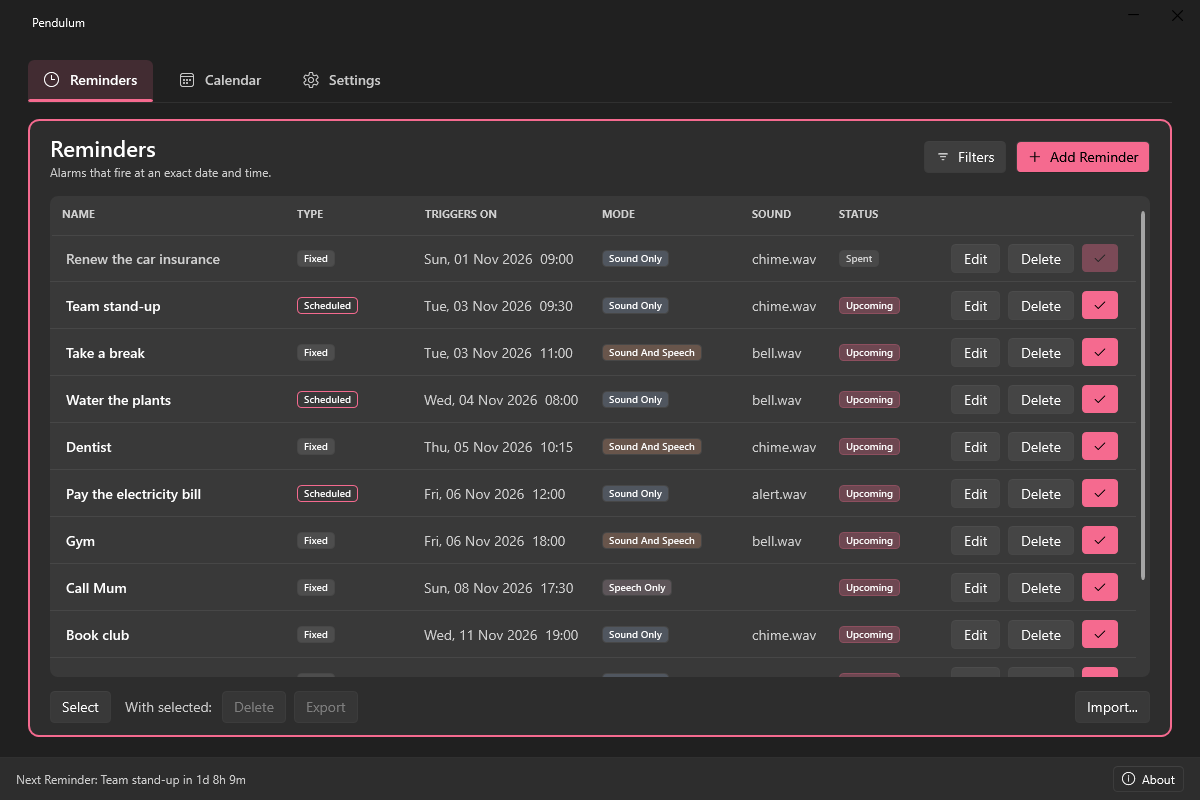
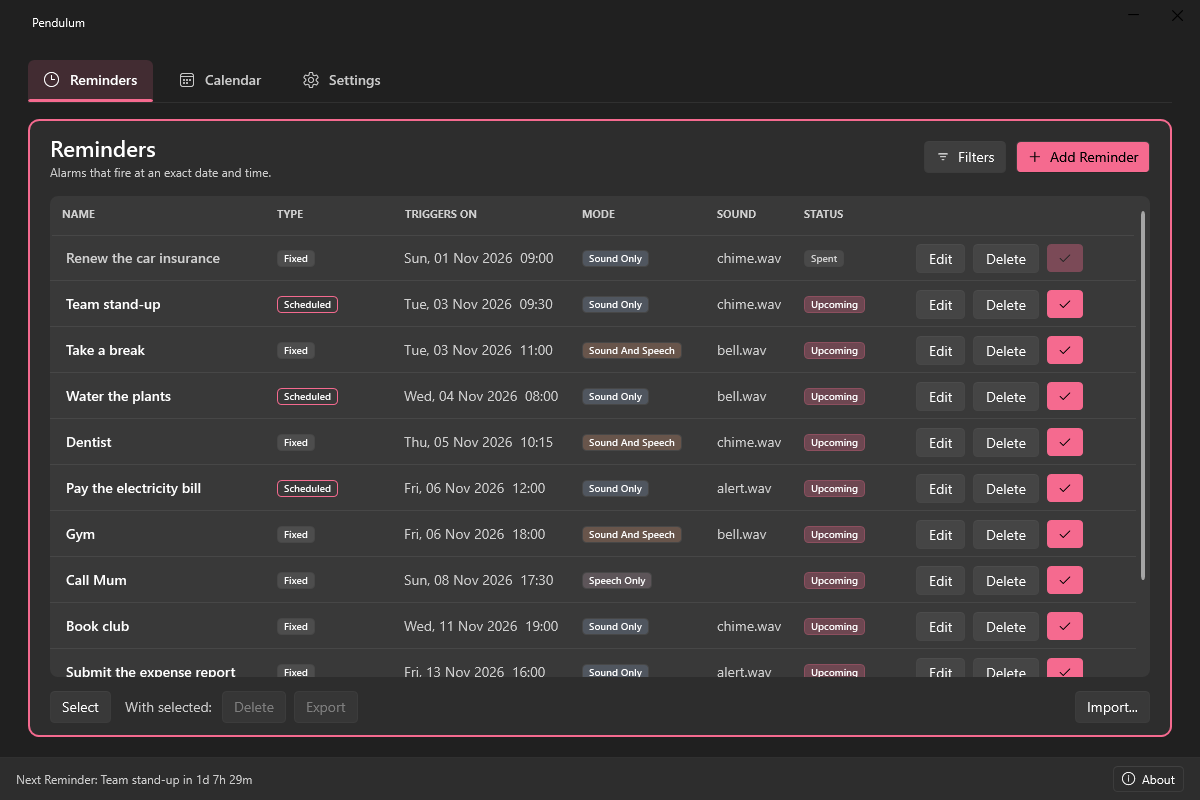
Keep AM/PM in the Reminders list's date column
The date column had a fixed width of 177 pixels in the XAML: no window
or column size is saved, so every window showed it the same way. With
12-hour times a date like "Thu, 05 Nov 2026  10:15 AM" needs about 15
pixels more than the column gave it, so AM/PM was cut off.

When the list loads, and whenever the 12/24-hour setting changes, the
column is measured for the widest date and time the current format can
show (every day of a year, so every day and month name, at a two-digit
hour morning and evening) in the list's own font, and widened if that
needs more than 177. A GridViewColumn has no minimum width, so dragging
it narrower than that is undone. The Name and Mode columns give up the
room it takes, so the columns still fit the window's default width
without a horizontal scrollbar. A test checks the width in two
cultures, after a drag and after switching to 24-hour times.

The README's Reminders picture is redrawn.

diff --git a/Pendulum.App/Views/TriggersPanel.xaml b/Pendulum.App/Views/TriggersPanel.xaml
@@ -249,7 +249,7 @@
 
         <Border Grid.Row="1" Background="{DynamicResource ControlFillColorDefaultBrush}" CornerRadius="8">
             <Grid>
-                <ListView ItemsSource="{Binding Source={StaticResource SortedTriggers}}" SelectedItem="{Binding SelectedTrigger}"
+                <ListView x:Name="RemindersList" ItemsSource="{Binding Source={StaticResource SortedTriggers}}" SelectedItem="{Binding SelectedTrigger}"
                           VerticalAlignment="Top"
                           BorderThickness="0" Background="Transparent"
                           Visibility="{Binding HasTriggers, Converter={StaticResource BoolToVis}, FallbackValue=Visible}">
@@ -268,7 +268,7 @@
                                     </DataTemplate>
                                 </GridViewColumn.CellTemplate>
                             </GridViewColumn>
-                            <GridViewColumn Width="235">
+                            <GridViewColumn Width="215">
                                 <GridViewColumn.Header>
                                     <GridViewColumnHeader Tag="Name" Click="ColumnHeader_Click" Style="{StaticResource CleanGridViewColumnHeader}">
                                         <StackPanel>
@@ -338,7 +338,9 @@
                                     </DataTemplate>
                                 </GridViewColumn.CellTemplate>
                             </GridViewColumn>
-                            <GridViewColumn Width="177">
+                            <!-- Widened in code, when needed, to the widest date and time the current
+                                 format can show (FitDateColumn): it never cuts off AM/PM. -->
+                            <GridViewColumn x:Name="DateColumn" Width="177">
                                 <GridViewColumn.Header>
                                     <GridViewColumnHeader Tag="TriggerAt" Click="ColumnHeader_Click" Style="{StaticResource CleanGridViewColumnHeader}">
                                     <StackPanel>
@@ -381,7 +383,7 @@
                                     </DataTemplate>
                                 </GridViewColumn.CellTemplate>
                             </GridViewColumn>
-                            <GridViewColumn Width="150">
+                            <GridViewColumn Width="135">
                                 <GridViewColumn.Header>
                                     <GridViewColumnHeader Tag="Mode" Click="ColumnHeader_Click" Style="{StaticResource CleanGridViewColumnHeader}">
                                     <StackPanel>

diff --git a/Pendulum.App/Views/TriggersPanel.xaml.cs b/Pendulum.App/Views/TriggersPanel.xaml.cs
@@ -1,7 +1,10 @@
 using System.ComponentModel;
+using System.Globalization;
 using System.Windows;
 using System.Windows.Controls;
 using System.Windows.Data;
+using System.Windows.Media;
+using Pendulum.App.Services;
 using Pendulum.App.ViewModels;
 using Pendulum.Core.Models;
 
@@ -30,7 +33,67 @@ public partial class TriggersPanel : UserControl
             EnableLiveSorting();
             SetupFiltering();
             ApplySort();
+            FitDateColumn();
+            DependencyPropertyDescriptor.FromProperty(GridViewColumn.WidthProperty, typeof(GridViewColumn))
+                .AddValueChanged(DateColumn, (_, _) => KeepDateColumnWide());
+            AppServices.Instance.Settings.PropertyChanged += (_, e) =>
+            {
+                if (e.PropertyName == nameof(AppSettings.Use24HourTime))
+                    FitDateColumn();
+            };
         };
+    }
+
+    // ---- The date column: never narrower than its widest date and time ----
+
+    /// The width the XAML gives the date column, kept when the dates fit in it.
+    private const double DateColumnDefaultWidth = 177;
+
+    /// A cell's padding (6 each side), the date's own left margin (5) and room after it (8).
+    private const double DateCellChrome = 6 + 6 + 5 + 8;
+
+    private double _dateColumnAutoWidth = DateColumnDefaultWidth;
+
+    /// The narrowest the date column may be: its widest date and time in the current format.
+    internal double DateColumnMinWidth { get; private set; }
+
+    /// Sizes the date column for the widest date and time the current format can show (the
+    /// culture's day and month names, 12- or 24-hour), and widens it if the dates don't fit. A
+    /// width the user dragged wider is kept.
+    internal void FitDateColumn()
+    {
+        DateColumnMinWidth = Math.Ceiling(WidestDateText(RemindersList, AppServices.Instance.Settings.Use24HourTime) + DateCellChrome);
+        var auto = Math.Max(DateColumnDefaultWidth, DateColumnMinWidth);
+        var dragged = Math.Abs(DateColumn.Width - _dateColumnAutoWidth) > 0.5;
+        _dateColumnAutoWidth = auto;
+        DateColumn.Width = dragged ? Math.Max(DateColumn.Width, DateColumnMinWidth) : auto;
+    }
+
+    // A GridViewColumn has no MinWidth: a drag narrower than the dates is undone.
+    private void KeepDateColumnWide()
+    {
+        if (DateColumn.Width < DateColumnMinWidth)
+            DateColumn.Width = DateColumnMinWidth;
+    }
+
+    /// The widest date and time the list can show, in the list's own font: every day of a year
+    /// (so every day name with every month name, and two-digit days), at a two-digit hour in the
+    /// morning and the evening (AM and PM).
+    internal static double WidestDateText(Control list, bool use24Hour)
+    {
+        var typeface = new Typeface(list.FontFamily, list.FontStyle, list.FontWeight, list.FontStretch);
+        var pixelsPerDip = VisualTreeHelper.GetDpi(list).PixelsPerDip;
+        var widest = 0.0;
+        for (var day = new DateTime(2026, 1, 1); day.Year == 2026; day = day.AddDays(1))
+        {
+            foreach (var hour in new[] { 10, 22 })
+            {
+                var text = DisplayFormat.DateAndTime(day.AddHours(hour).AddMinutes(58), use24Hour);
+                var formatted = new FormattedText(text, CultureInfo.CurrentCulture, list.FlowDirection, typeface, list.FontSize, Brushes.Black, pixelsPerDip);
+                widest = Math.Max(widest, formatted.WidthIncludingTrailingWhitespace);
+            }
+        }
+        return widest;
     }
 
     private void EnableLiveSorting()

diff --git a/Pendulum.App.Tests/ReminderFilterPanelTests.cs b/Pendulum.App.Tests/ReminderFilterPanelTests.cs
@@ -232,6 +232,46 @@ public sealed class ReminderFilterPanelTests : IDisposable
         });
     }
 
+    [Theory]
+    [InlineData("en-US")]
+    [InlineData("en-GB")]
+    public void The_date_column_is_never_narrower_than_its_widest_date_and_time(string culture)
+    {
+        var settings = new AppSettings { Use24HourTime = false };
+
+        UiThread.Invoke(() =>
+        {
+            var before = System.Globalization.CultureInfo.CurrentCulture;
+            System.Globalization.CultureInfo.CurrentCulture = System.Globalization.CultureInfo.GetCultureInfo(culture);
+            try
+            {
+                var panel = Build(settings);
+                panel.RaiseEvent(new RoutedEventArgs(FrameworkElement.LoadedEvent));   // as when the tab first shows
+                var list = (ListView)panel.FindName("RemindersList");
+                var column = (GridViewColumn)panel.FindName("DateColumn");
+                const double cellPaddingAndMargin = 6 + 6 + 5;
+
+                // 12-hour: the widest date and time, AM/PM and all, fits.
+                var widest = TriggersPanel.WidestDateText(list, use24Hour: false);
+                Assert.True(column.Width >= widest + cellPaddingAndMargin,
+                    $"the column is {column.Width} wide for a {widest}-wide date");
+
+                // Dragged narrower: the width comes back to what the dates need.
+                column.Width = 90;
+                Assert.Equal(panel.DateColumnMinWidth, column.Width);
+                Assert.True(column.Width >= widest + cellPaddingAndMargin);
+
+                // 24-hour: measured again for that format, and still fits.
+                settings.Use24HourTime = true;
+                Assert.True(column.Width >= TriggersPanel.WidestDateText(list, use24Hour: true) + cellPaddingAndMargin);
+            }
+            finally
+            {
+                System.Globalization.CultureInfo.CurrentCulture = before;
+            }
+        });
+    }
+
     private static TriggersPanel Build(AppSettings settings)
     {
         AppServices.Instance.UseSettingsForTests(settings);

diff --git a/CHANGELOG.md b/CHANGELOG.md
@@ -32,6 +32,9 @@ Installing it over 1.1.0 keeps your reminders, settings and downloaded voices an
   under Monthly or Yearly.
 
 ### Fixed
+- The Reminders list's date column no longer cuts off AM/PM: it's as wide as the
+  longest date and time it can show, in your format, and dragging it narrower stops
+  there.
 - The Reminders list's Select mode shows each checkbox whole: they were cut off
   at the list's left edge. Screen readers now name each one for its reminder.
 - Choosing a value in a column's filter in the Reminders list no longer re-sorts the
